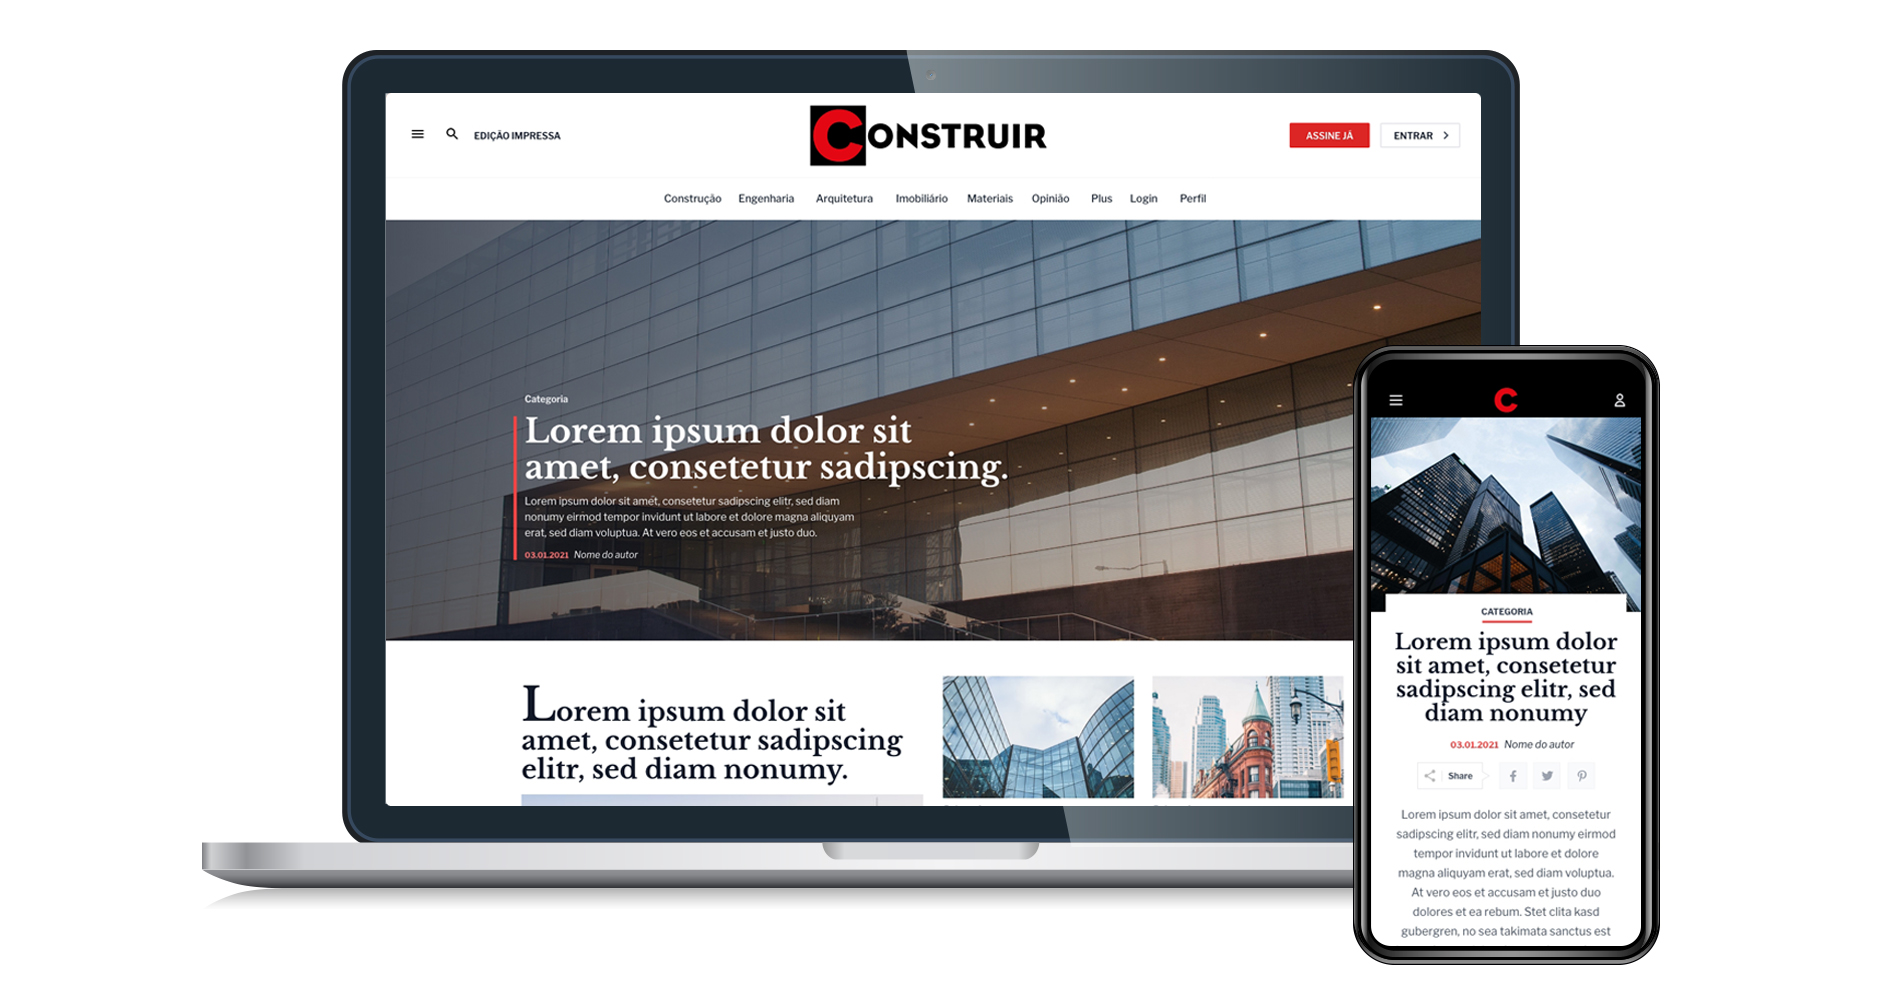
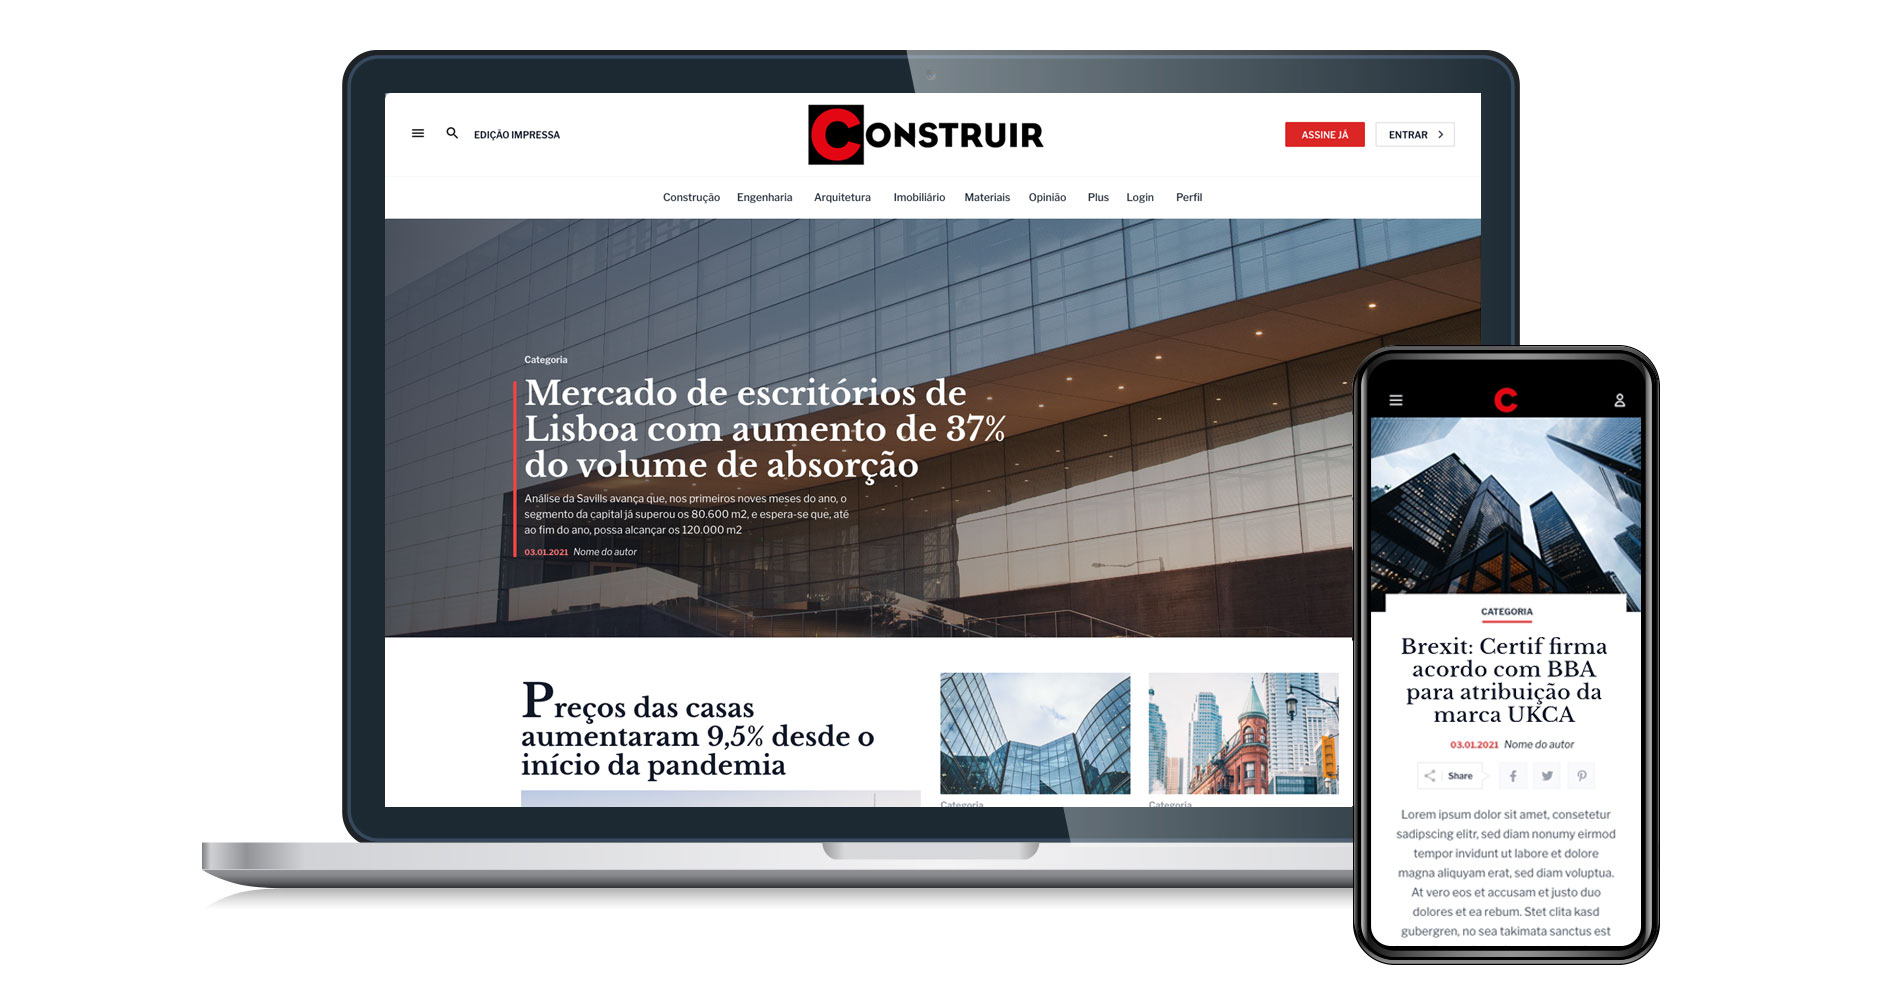
construir

diff --git a/src/pages/construir.js b/src/pages/construir.js
@@ -2,20 +2,25 @@ import React from "react"
 
 // ------- import project images -------
 import Construir01 from "../assets/images/construir/01.jpg"
+import Construir02 from "../assets/images/construir/02.jpg"
+import Construir03 from "../assets/images/construir/03.jpg"
 
 export default function construir() {
     return (
         <>
             <div className="w-10/12 mx-auto mb-28 mt-32">
-                <h2 className="text-5xl font-rubik font-bold text-gray-700">Medica</h2>
-                <h2 className="max-w-5xl mt-3 text-5xl font-rubik leading-tight text-gray-600">A collaborative app to find doctors, set appointments and give/ receive indications</h2>
+                <h2 className="text-5xl font-rubik font-bold text-gray-700">Construir</h2>
+                <h2 className="max-w-5xl mt-3 text-5xl font-rubik leading-tight text-gray-600">Design rebranding, interface design and front-end development for <a href="https://www.construir.pt/" target="_blank">@Workmedia</a>, a real estate news company</h2>
                 <div className="mt-6">
-                <div class="inline bg-purple-100 text-purple-600 antialiased rounded-full text-sm tracking-wide font-semibold px-3 py-1 mr-2">Personal</div>
-                <div class="inline bg-purple-100 text-purple-600 antialiased rounded-full text-sm tracking-wide font-semibold px-3 py-1 mr-2">Research</div>
-                <div class="inline bg-purple-100 text-purple-600 antialiased rounded-full text-sm tracking-wide font-semibold px-3 py-1 mr-2">Ux/Ui design</div>
+                <div class="inline bg-purple-100 text-purple-600 antialiased rounded-full text-sm tracking-wide font-semibold px-3 py-1 mr-2">Refactor</div>
+                <div class="inline bg-purple-100 text-purple-600 antialiased rounded-full text-sm tracking-wide font-semibold px-3 py-1 mr-2">Interface design</div>
+                <div class="inline bg-purple-100 text-purple-600 antialiased rounded-full text-sm tracking-wide font-semibold px-3 py-1 mr-2">Front-end</div>
+                <div class="inline bg-purple-100 text-purple-600 antialiased rounded-full text-sm tracking-wide font-semibold px-3 py-1 mr-2">React</div>
                 </div>
             </div>
-            <img className="w-10/12 h-auto object-contain mx-auto" src={Construir01} alt="Alterar alt" />
+            <img className="w-100 h-auto object-contain mx-auto" src={Construir01} alt="Alterar alt" />
+            <img className="w-100 h-auto object-contain mx-auto" src={Construir02} alt="Alterar alt" />
+            <img className="w-100 h-auto object-contain mx-auto" src={Construir03} alt="Alterar alt" />
         </ >
     )
 };

diff --git a/src/components/work.js b/src/components/work.js
@@ -9,7 +9,7 @@ import IllustrationThumb from "../assets/images/illustration/illustration-thumb.
 import InohubThumb from "../assets/images/inohub/inohub-thumb.jpg"
 import TbThumb from "../assets/images/tb-thumb.png"
 import MedicaThumb from "../assets/images/medica/01.gif"
-import ConstruirThumb from "../assets/images/construir/03.jpg"
+import ConstruirThumb from "../assets/images/construir/02.jpg"
 
 export default function Work() {
   const { cursorChangeHandler } = useContext(MouseContext);
